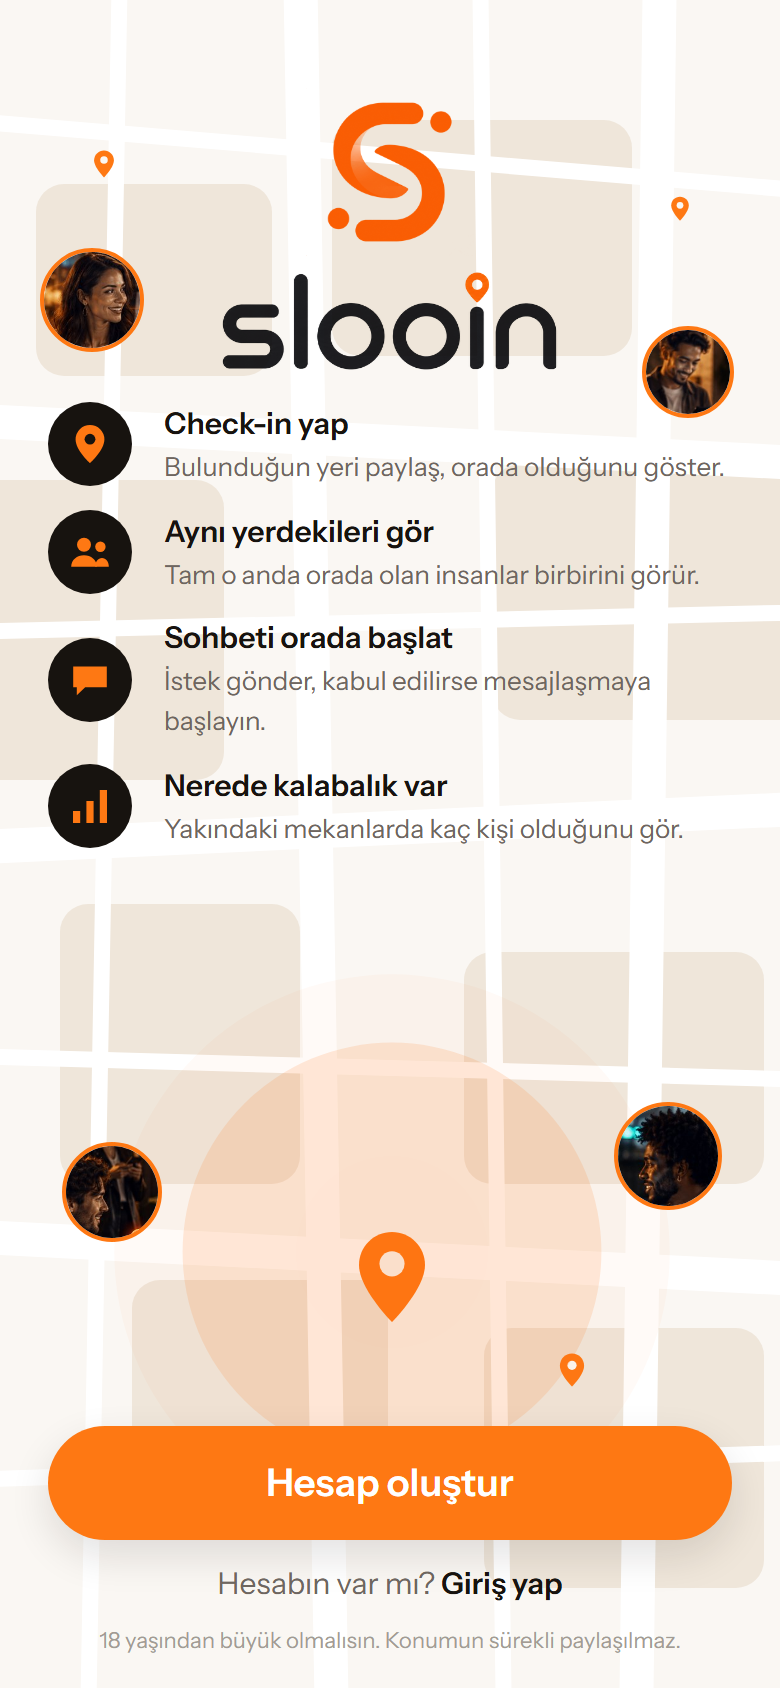
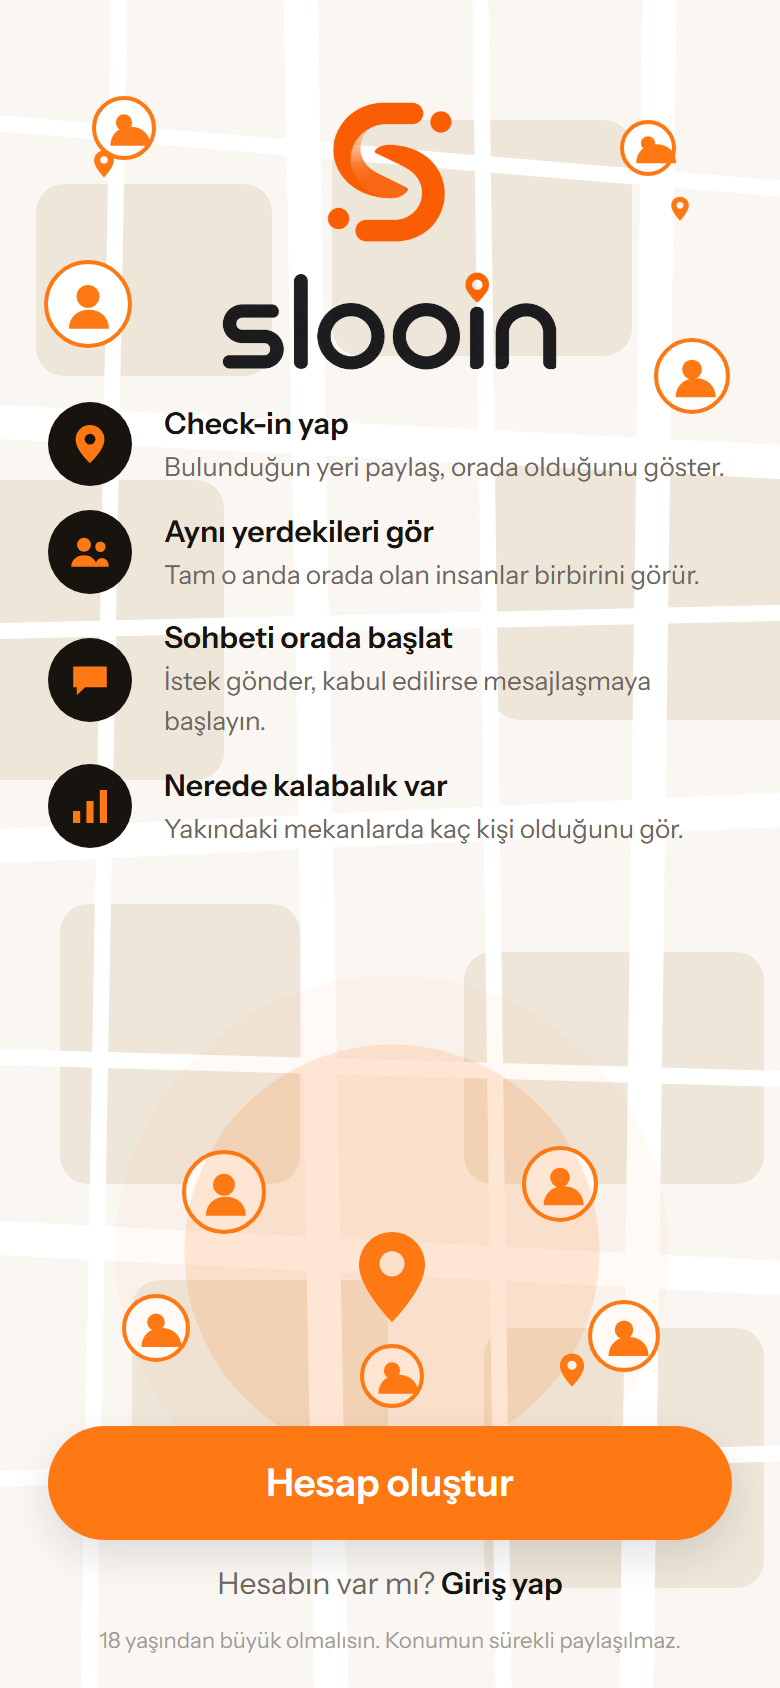
feat(tasarim): krokide gercek yuz yerine insan ikonlari
Kullanicinin karari (2026-08-25): 'gercek insan yuzu olmasin iptal,
ozellikle nabiz gibi atan check-in'in yakininda daha cok insan ikonu
olsun, cevresinde de bazi yerlerde olsun.'

Fotograflar kaldirildi (dort jpg silindi); yerine turuncu cerceveli
daire icinde sade siluet ikonu geldi. Dagilim artik anlamli: bes ikon
nabzin cevresinde toplu - 'su an burada insanlar var' -, dort ikon
sehrin geri kalanina dagilmis. Hicbiri metnin uzerine gelmiyor.

49 paket / 416 test yesil.

diff --git a/mobil/src/tasarim/KrokiZemin.tsx b/mobil/src/tasarim/KrokiZemin.tsx
@@ -1,23 +1,25 @@
 import { useEffect, useRef, useState } from 'react'
-import { AccessibilityInfo, Animated, Easing, Image, StyleSheet, View } from 'react-native'
+import { AccessibilityInfo, Animated, Easing, StyleSheet, View } from 'react-native'
 import Svg, { Circle, G, Path, Rect } from 'react-native-svg'
 import { renk } from './tema'
 
 /**
  * Acilis ekraninin arka plani: bir kroki (basitlestirilmis harita),
  * ustunde check-in ignesi, nabiz gibi atan halkalar ve cevresinde
- * gercek insan fotograflari.
+ * insan ikonlari.
  *
  * Kullanicinin kararlari (2026-08-25):
  *   - "komple acilis sayfasinin arka planini kapsayan bir harita kroki
  *      gibi birsey, uzerinde check-in ikonlari ve insani temsil eden
  *      gorseller"
- *   - ince ayar: "kroki daha belirgin, insan siluetleri gercek
- *      fotograf, halkalar nabiz gibi atsin"
+ *   - "kroki daha belirgin, halkalar nabiz gibi atsin"
+ *   - gercek fotograf DENENDI VE IPTAL EDILDI: "gercek insan yuzu
+ *     olmasin, ozellikle nabiz gibi atan check-in'in yakininda daha
+ *     cok insan ikonu olsun, cevresinde de bazi yerlerde olsun"
  *
- * Kroki CIZIM, fotograf degil: uzerine metin biniyor ve fotografta
- * metni okutmak icin karartma gerekir; karartma da acik kimligi bozar.
- * Insanlar ise fotograf, cunku uygulamanin vaadi gercek insanlar.
+ * Her sey CIZIM: uzerine metin biniyor ve fotografta metni okutmak
+ * icin karartma gerekir; karartma da acik kimligi bozar. Insanlar da
+ * ikon - gercek yuz denendi, kullanici istemedi.
  *
  * HAREKET TEK YERDE: yalnizca halkalar atiyor. Cihazda "hareketi azalt"
  * aciksa hic atmiyor, halkalar sabit duruyor.
@@ -31,15 +33,23 @@ const BOY = 844
 const MERKEZ = { x: 196, y: 626 }
 
 /**
- * Insan fotograflari. Konumlar rastgele degil: marka kilidinin iki yani
- * ve ozellik listesiyle butonlar arasindaki bos bant. Ilk denemede
- * ozellik satirlarinin uzerine biniyorlardi.
+ * Insan ikonlari. Konumlar rastgele degil: hicbiri metnin uzerine
+ * gelmiyor (ilk denemede ozellik satirlarinin uzerine biniyorlardi) ve
+ * kalabalik bilerek nabzin cevresinde topluyor.
  */
 const KISILER = [
-  { x: 46, y: 150, r: 26, kaynak: require('../../assets/images/kroki-yuz-1.jpg') },
-  { x: 344, y: 186, r: 23, kaynak: require('../../assets/images/kroki-yuz-3.jpg') },
-  { x: 56, y: 596, r: 25, kaynak: require('../../assets/images/kroki-yuz-2.jpg') },
-  { x: 334, y: 578, r: 27, kaynak: require('../../assets/images/kroki-yuz-5.jpg') },
+  // Nabzin cevresinde YOGUN: "su an burada insanlar var" demek icin
+  // kalabalik tam ignenin etrafinda toplaniyor.
+  { x: 112, y: 596, r: 20 },
+  { x: 280, y: 592, r: 18 },
+  { x: 78, y: 664, r: 16 },
+  { x: 312, y: 668, r: 17 },
+  { x: 196, y: 688, r: 15 },
+  // Cevrede seyrek: sehrin geri kalaninda da insanlar var.
+  { x: 44, y: 152, r: 21 },
+  { x: 346, y: 188, r: 18 },
+  { x: 62, y: 64, r: 15 },
+  { x: 324, y: 74, r: 13 },
 ]
 
 /** Krokideki ikincil check-in igneleri - metnin ustune binmeyen yerler. */
@@ -53,6 +63,21 @@ const HALKA_SURESI = 2800
 const HALKA_ADEDI = 3
 /** Nabzin en genis hali - merkezden yaricap (tuval birimi). */
 const HALKA_YARICAP = 150
+
+/** Insan ikonu: turuncu cerceveli daire icinde sade bir siluet. */
+function Kisi({ x, y, r }: { x: number; y: number; r: number }) {
+  const o = r / 22
+  return (
+    <G>
+      <Circle cx={x} cy={y} r={r} fill={renk.yuzey} stroke={renk.turuncu} strokeWidth={2} />
+      <Circle cx={x} cy={y - 4 * o} r={6 * o} fill={renk.turuncu} />
+      <Path
+        d={`M${x - 10 * o} ${y + 13 * o}c0-6 4.5-9.5 10-9.5s10 3.5 10 9.5z`}
+        fill={renk.turuncu}
+      />
+    </G>
+  )
+}
 
 function Igne({ x, y, olcek }: { x: number; y: number; olcek: number }) {
   return (
@@ -168,7 +193,12 @@ export function KrokiZemin() {
           <Igne key={i} {...igne} />
         ))}
 
-        {/* Merkezdeki check-in ignesi: krokinin odagi. */}
+        {KISILER.map((kisi, i) => (
+          <Kisi key={i} {...kisi} />
+        ))}
+
+        {/* Merkezdeki check-in ignesi: krokinin odagi, insanlarin
+            ortasinda duruyor. */}
         <Igne x={MERKEZ.x} y={MERKEZ.y + 26} olcek={1.5} />
       </Svg>
 
@@ -194,24 +224,6 @@ export function KrokiZemin() {
         ))}
       </View>
 
-      {KISILER.map((kisi, i) => (
-        <Image
-          key={i}
-          source={kisi.kaynak}
-          style={[
-            stiller.yuz,
-            {
-              left: `${((kisi.x - kisi.r) / EN) * 100}%`,
-              top: `${((kisi.y - kisi.r) / BOY) * 100}%`,
-              width: kisi.r * 2,
-              height: kisi.r * 2,
-              borderRadius: kisi.r,
-            },
-          ]}
-          accessibilityRole="image"
-          accessibilityLabel=""
-        />
-      ))}
     </View>
   )
 }
@@ -227,10 +239,4 @@ const stiller = StyleSheet.create({
     backgroundColor: renk.turuncu,
   },
   halkaSabit: { opacity: 0.14, transform: [{ scale: 0.7 }] },
-  yuz: {
-    position: 'absolute',
-    borderWidth: 2,
-    borderColor: renk.turuncu,
-    backgroundColor: renk.yuzey,
-  },
 })
